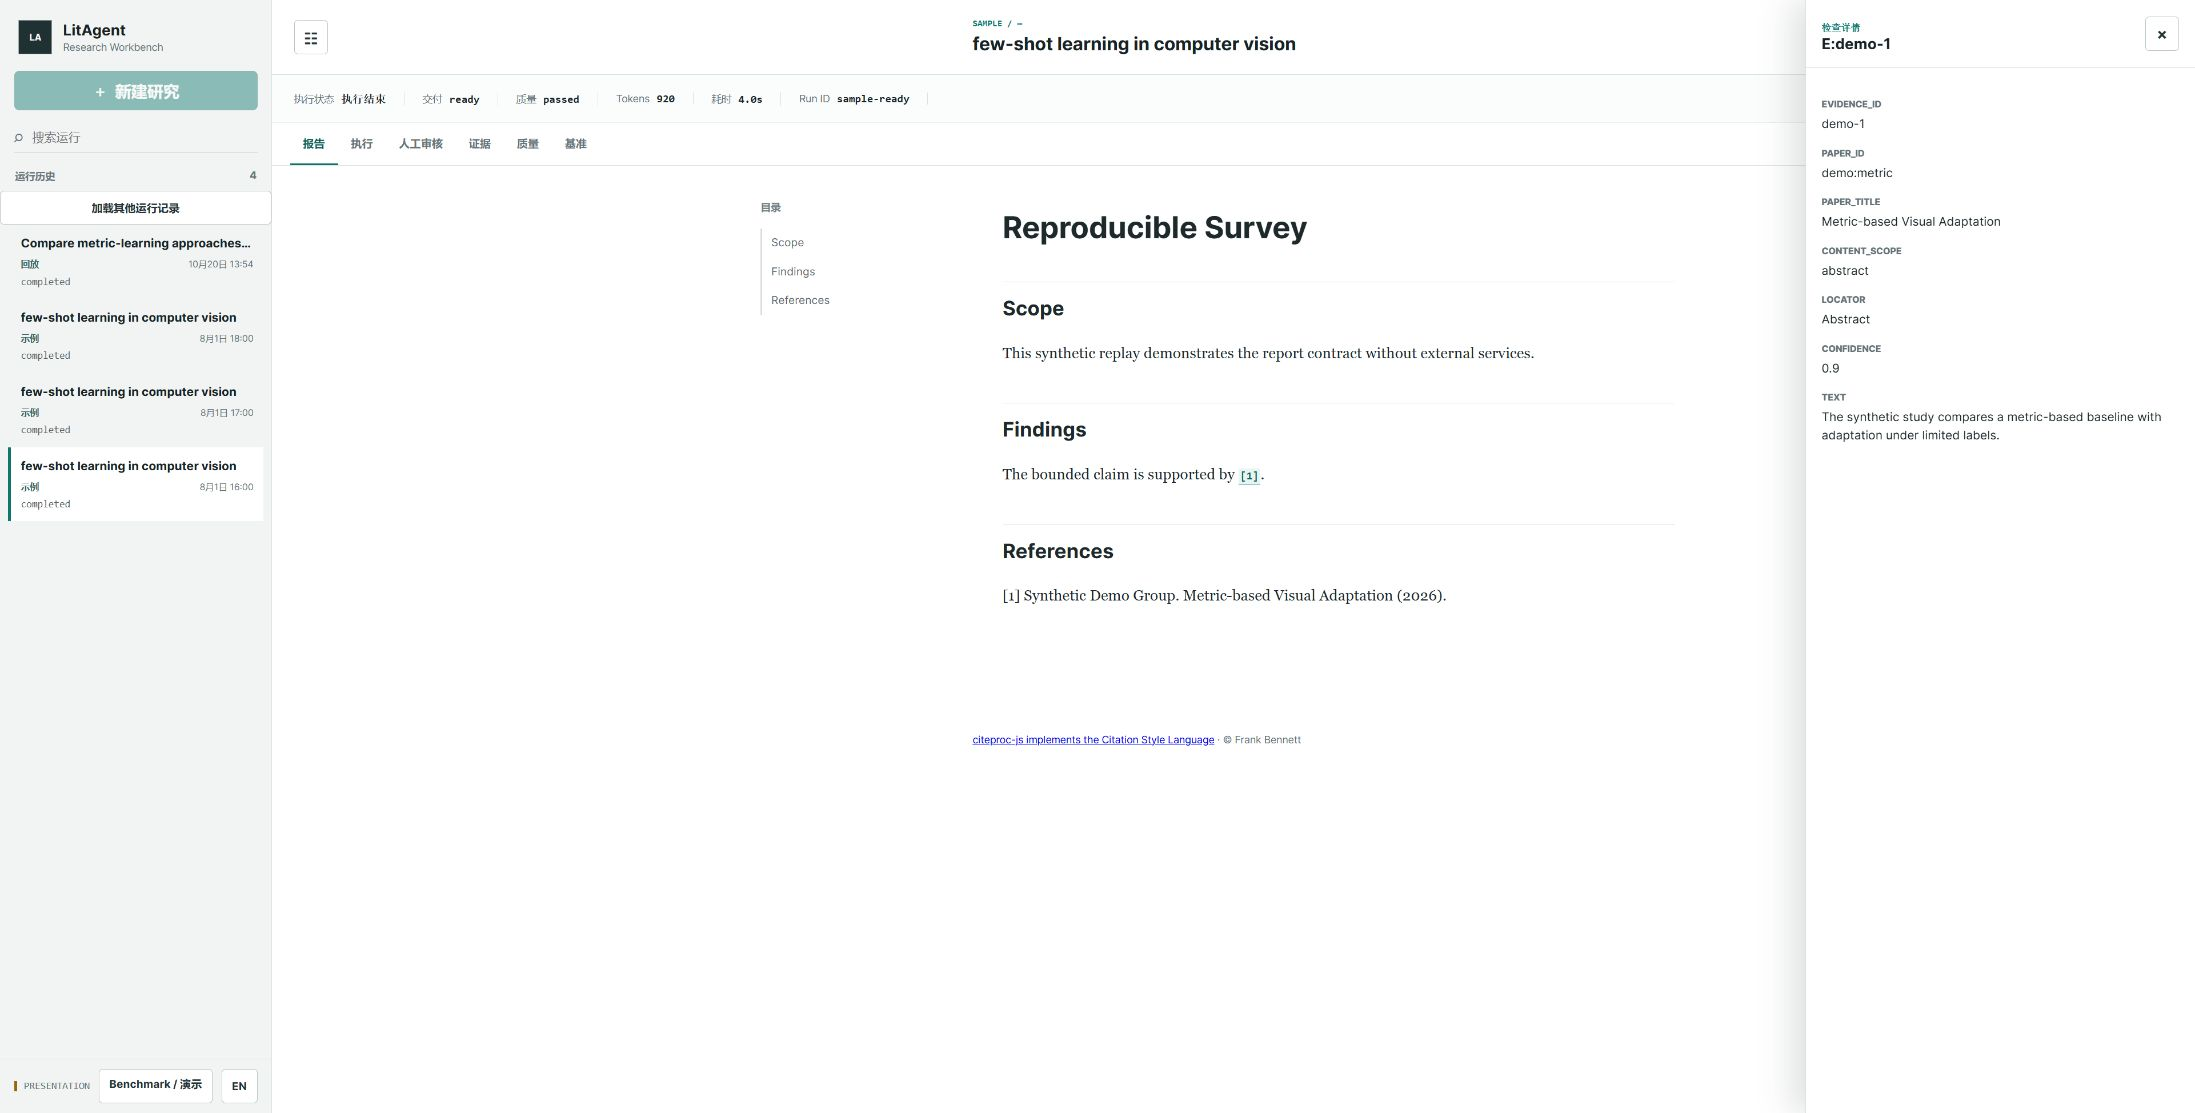
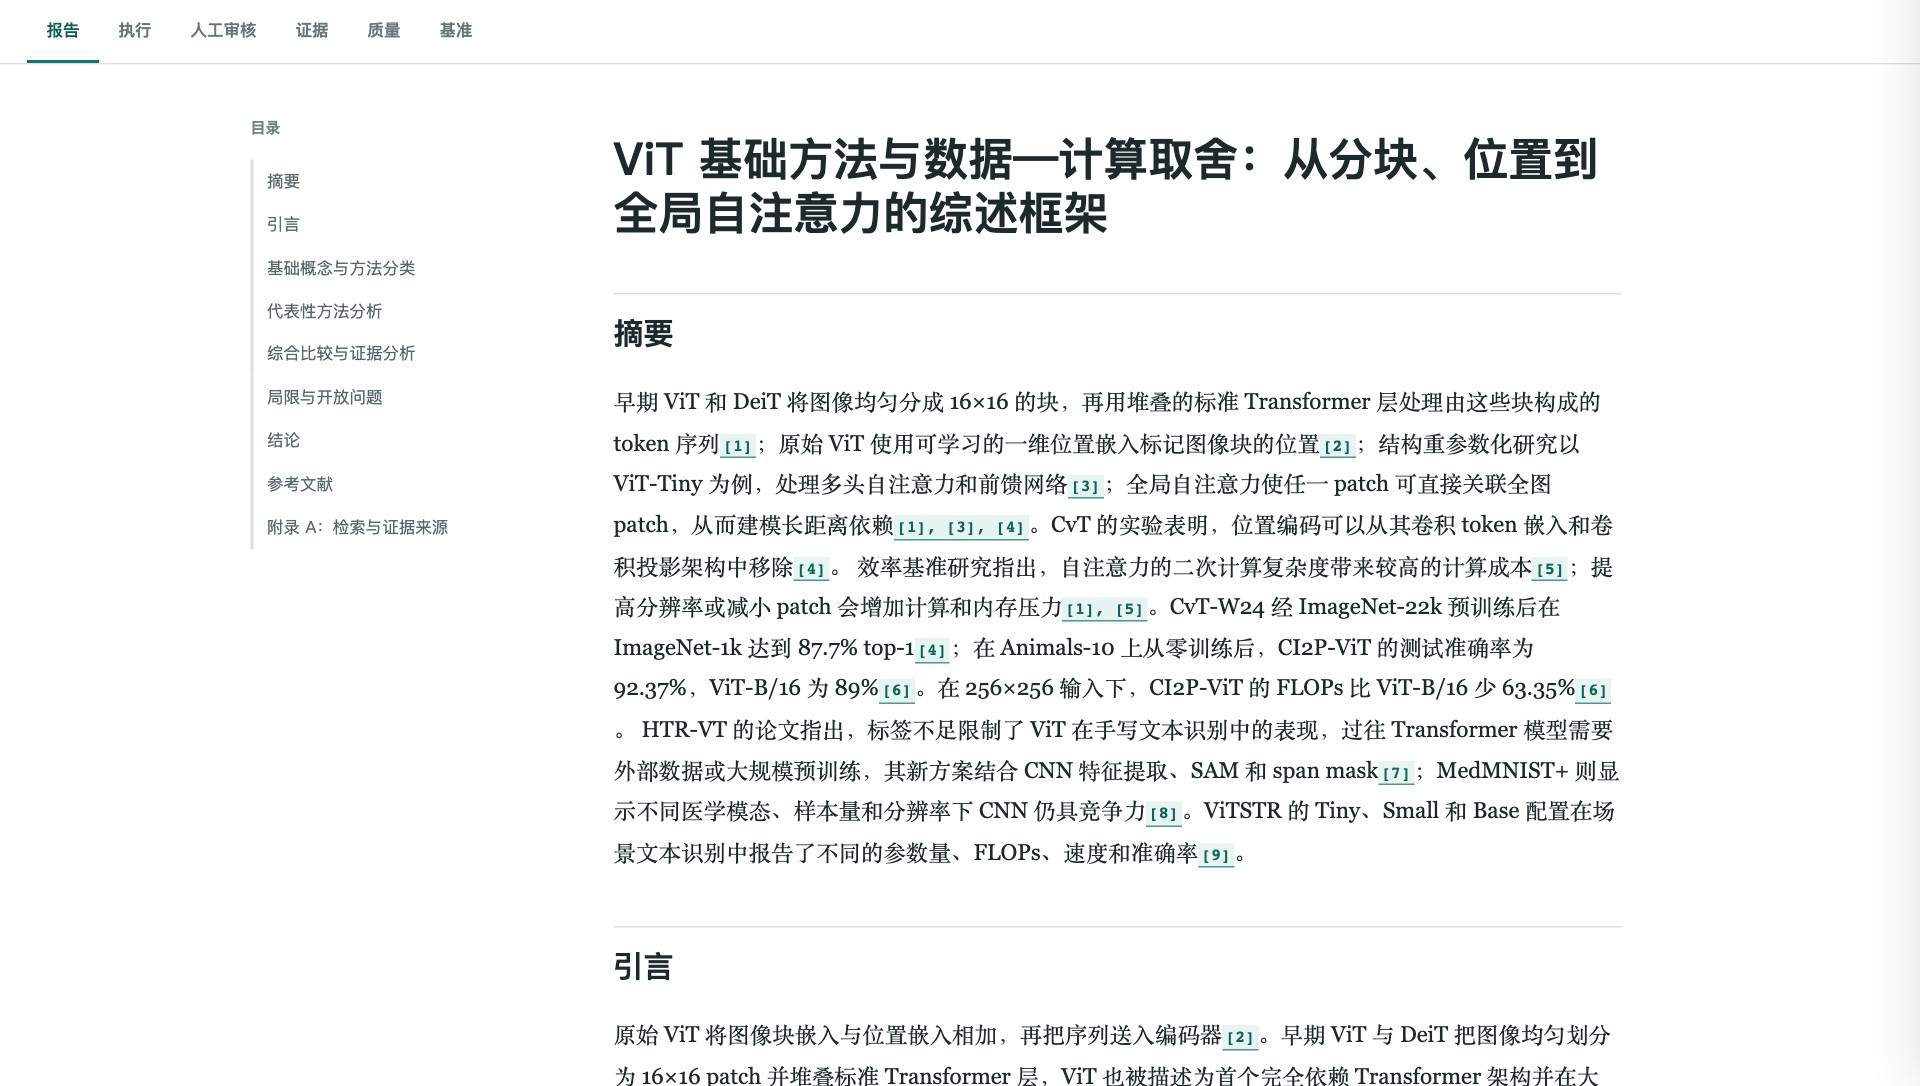
docs: showcase a live ViT report in the README

diff --git a/README.en.md b/README.en.md
@@ -24,7 +24,11 @@ sources, review history and evaluation results for inspection and revision.
 
 ## Demo
 
-![LitAgent workbench with report reading and citation inspection](./docs/images/readme-workbench-zh.jpg)
+![A generated Vision Transformer survey with its outline, abstract and inline citations](./docs/images/readme-workbench-zh.jpg)
+
+The screenshot shows a Vision Transformer survey from a live run. Re-evaluation found
+support in the cited sources for 536 of 561 scientific claims (95.54%), so the draft
+did not meet the strict delivery criteria.
 
 | View | Features |
 | --- | --- |
